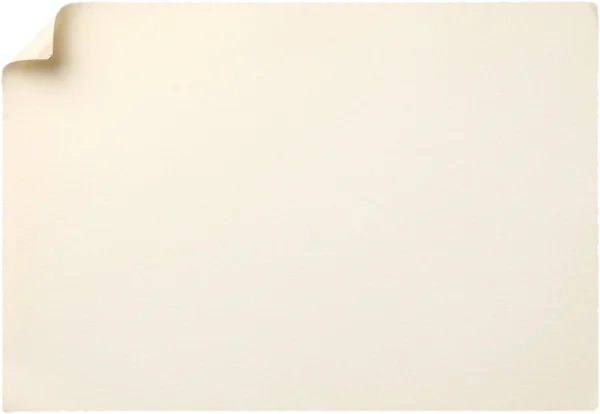
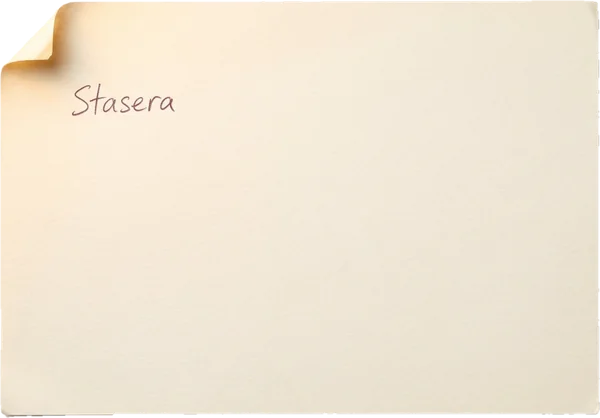
Scrivania: il tavolo, la mappa e il biglietto sono foto vere
Legno di noce con gli aloni di tazza, la cartina piegata con le macchie
di caffè, e "Stasera" scritto a mano dentro il biglietto. Il percorso,
le croci e le note a pennarello restano disegnati sopra dai tuoi dati.

Claude-Session: https://claude.ai/code/session_0132maytbjQPjkvku1fYAZ7S

diff --git a/css/scrivania.css b/css/scrivania.css
@@ -45,7 +45,14 @@
    schermo vero, a un pixel per pixel, diventano righe verticali marcate su
    tutta la pagina. Segnalato da Giovanni il 21 settembre 2026: il fondo deve
    essere uniforme. La profondita' la da' la luce qui sotto, non la grana. */
-#screen-home{background-color:#3d2c1e}
+/* IL LEGNO E' UNA FOTO (8 ottobre 2026), generata da Giovanni prendendo come
+   riferimento la scrivania di Jill: noce scuro, graffi, due aloni di tazza.
+   La tinta piatta resta sotto come colore di riserva, per il mezzo secondo
+   prima che l'immagine arrivi. COVER e non ripetuta: la foto non e' una
+   piastrella, ha gia' dentro la sua luce e i bordi scuri, e ripetendola si
+   vedrebbero le cuciture. Su un telefono in verticale se ne vede una fetta
+   centrale, che e' la parte con gli aloni. */
+#screen-home{background:#3d2c1e url(../img/scrivania/legno.webp) center/cover no-repeat}
 /* LA POZZA DI LUCE. Larga e in alto, come la fa una lampada da tavolo: una
    macchia piccola al centro sembrava un faretto da museo. Sta sopra il legno e
    sotto gli oggetti (z-index), e non riceve tocchi. */
@@ -147,9 +154,24 @@ body.is-touch #screen-home .home-scroll{padding-bottom:calc(178px + var(--safe-b
    intorno al disegno, e sta storto di mezzo grado. Storto di piu' sembrerebbe
    un errore; dritto sembrerebbe stampato sulla pagina. */
 .scriv-foglio{
-  background:#efe7d2;padding:7px;transform:rotate(-.5deg);
-  box-shadow:0 1px 2px rgba(0,0,0,.3),0 14px 30px rgba(0,0,0,.35);
+  background:url(../img/scrivania/mappa.webp) center/100% 100% no-repeat;
+  padding:7px;transform:rotate(-.5deg);
+  filter:drop-shadow(0 1px 1px rgba(0,0,0,.35)) drop-shadow(0 12px 16px rgba(0,0,0,.32));
 }
+/* LA MAPPA E' UNA FOTO (8 ottobre 2026): carta piegata in sei, macchie di
+   caffe', isolati, parchi e fiume gia' stampati. Prima erano due griglie di
+   righe chiare e tre rettangoli colorati messi da scrivania.js; adesso il
+   disegno lo fa l'immagine, e il codice ci scrive sopra solo i DATI — il
+   percorso, le croci, il cerchio di oggi, le note a pennarello.
+   - Si stira su tutto il foglio (100% 100%): il foglio e' alto quanto la mappa
+     piu' la legenda, quindi le proporzioni cambiano da schermo a schermo, e
+     una cartina di isolati stirata del dieci per cento non si nota.
+   - L'ombra e' un drop-shadow perche' i bordi della carta sono consumati e
+     irregolari: un box-shadow disegnerebbe un rettangolo dritto sotto.
+   - Lo sfondo bianco del generatore e' stato tolto riempiendo dai bordi
+     dell'immagine i pixel quasi uguali al vicino, piu' l'ombra grigia neutra
+     sotto il foglio. Un filtro sul colore non bastava: la luce calda in alto
+     a sinistra aveva lo stesso giallo della carta. */
 .scriv-mappa{
   position:relative;overflow:hidden;
   /* L'ALTEZZA CRESCE COL FOGLIO ma non oltre: il mese ha cinque righe di
@@ -158,18 +180,8 @@ body.is-touch #screen-home .home-scroll{padding-bottom:calc(178px + var(--safe-b
      veri (lo compone scrivania.js leggendo la misura a schermo), quindi ad
      ogni cambio di larghezza va ridisegnato — vedi il listener sul resize. */
   height:clamp(186px, min(46vw, 30vh), 300px);
-  /* LE STRADE. Due griglie di righe chiare sopra la carta tabacco: sono lo
-     sfondo su cui corre il percorso, e servono a far leggere il disegno come
-     una CITTA' invece che come un grafico. Le percentuali sono quelle della
-     mappa vera: isolati larghi e strade sottili. */
-  background:
-    linear-gradient(90deg,transparent 0 12%,#f2ece0 12% 13.4%,transparent 13.4% 30%,#f2ece0 30% 31.4%,transparent 31.4% 52%,#f2ece0 52% 53.4%,transparent 53.4% 74%,#f2ece0 74% 75.4%,transparent 75.4%),
-    linear-gradient(0deg,transparent 0 16%,#f2ece0 16% 18%,transparent 18% 44%,#f2ece0 44% 46%,transparent 46% 72%,#f2ece0 72% 74%,transparent 74%),
-    #e6dcc6;
 }
 .scriv-mappa svg{position:absolute;inset:0;width:100%;height:100%}
-.scriv-parco{position:absolute;background:#b9cf9c;opacity:.8}
-.scriv-fiume{position:absolute;background:#7fb6d8;opacity:.8}
 /* Il nome del mese e' STAMPATO, non scritto a mano: e' quello che c'era sul
    foglio prima che tu ci passassi sopra col pennarello. */
 .scriv-mese{
@@ -197,8 +209,11 @@ body.is-touch #screen-home .home-scroll{padding-bottom:calc(178px + var(--safe-b
    destra del foglio e' dove il cronometro ci si appoggia sopra, e li' sotto
    ogni parola sparisce. */
 .scriv-legenda{
-  margin-top:7px;padding:8px 4px 2px;max-width:74%;
-  border-top:1px solid rgba(90,70,40,.22);
+  margin-top:7px;padding:7px 9px 5px;max-width:74%;
+  /* Sulla mappa fotografica sotto ci sono gli isolati, non piu' il margine
+     bianco del foglio: la frase sta su un cartiglio di carta, come la legenda
+     stampata di una cartina vera, se no la si legge sopra i tetti. */
+  background:rgba(244,236,216,.9);box-shadow:0 0 0 1px rgba(90,70,40,.18);
   display:flex;flex-direction:column;gap:2px;
 }
 .scriv-legenda[hidden]{display:none}
@@ -230,9 +245,11 @@ body.is-touch #screen-home .home-scroll{padding-bottom:calc(178px + var(--safe-b
    (Giovanni, 21 settembre 2026). Sette centesimi sono abbastanza da leggersi
    come una scelta e non come un errore di un pixel. */
 .scriv-biglietto{
-  order:1;margin-top:58px;margin-left:7%;width:min(214px,52%);position:relative;
+  --largo:min(214px,52%);
+  order:1;margin-top:58px;margin-left:7%;width:var(--largo);position:relative;
   background:url(../img/scrivania/biglietto.webp) center/100% 100% no-repeat;
-  padding:20px 12px 13px 14px;transform:rotate(1.4deg);
+  aspect-ratio:600/418;transform:rotate(1.4deg);
+  padding:calc(var(--largo)*.21) calc(var(--largo)*.09) calc(var(--largo)*.06) calc(var(--largo)*.12);
   filter:drop-shadow(0 1px 1px rgba(0,0,0,.35)) drop-shadow(0 10px 14px rgba(0,0,0,.32));
   border:0;text-align:left;font:inherit;cursor:pointer;
 }
@@ -244,10 +261,25 @@ body.is-touch #screen-home .home-scroll{padding-bottom:calc(178px + var(--safe-b
    - l'ombra e' un drop-shadow e non un box-shadow, che disegnerebbe il
      rettangolo pieno e farebbe vedere un'ombra quadrata sotto l'angolo
      piegato, dove la carta non c'e';
-   - il testo parte 20px sotto il bordo invece di 15, se no "STASERA" finiva
-     sopra la piega. Ai lati invece il totale resta 26px come prima: il
-     foglio deve restare largo quanto era, il walkman e l'interruttore sono
-     stati sistemati attorno a quella misura.
+   - "Stasera" adesso e' scritto a mano DENTRO la foto (8 ottobre), con la
+     grafia delle note di Jill sulla mappa, e finisce al 28% dell'altezza del
+     foglio. Il testo del compito deve partire sotto, e per restare sotto il
+     foglio ha le proporzioni della foto (aspect-ratio) e i margini sono una
+     frazione della sua larghezza (--largo): in alto il 21%, che con quelle
+     proporzioni e' il 30% dell'altezza. Con un margine in pixel, su un foglio
+     piu' piccolo il compito sarebbe finito sopra la parola. Il 12% a sinistra
+     allinea il compito all'inizio di "Stasera".
+     NON IN PERCENTUALE SECCA: un padding in % si calcola sulla larghezza
+     della RIGA che contiene il biglietto, non del biglietto. Sul telefono le
+     due misure quasi coincidono e non si vedeva; sul computer la riga e'
+     larga 860px, il 12% diventava 103px e il compito andava a capo a ogni
+     parola. --largo ripete la formula della larghezza, cosi' i margini
+     seguono il foglio.
+     Se il compito e' lungo il foglio cresce in altezza (aspect-ratio fa da
+     minimo, non da gabbia) e la parola scende un poco con lui: meglio che
+     tagliare il compito.
+     La larghezza non cambia: il walkman e l'interruttore sono stati
+     sistemati attorno a quella misura.
    L'immagine si stira sull'altezza del biglietto (100% 100%): la carta non
    ha righe ne' disegni, quindi stirata non si nota, e il foglio resta
    sempre alto quanto quello che c'e' scritto. Lo sfondo a scacchi che il
@@ -257,10 +289,6 @@ body.is-touch #screen-home .home-scroll{padding-bottom:calc(178px + var(--safe-b
 .scriv-biglietto .nastro{
   position:absolute;width:52px;height:16px;background:rgba(236,226,196,.6);
   left:50%;margin-left:-26px;top:-7px;transform:rotate(-1.6deg);
-}
-.scriv-biglietto i{
-  font-style:normal;display:block;font-family:'Penna',cursive;
-  font-size:11px;color:#8d4a32;letter-spacing:.05em;margin-bottom:3px;
 }
 .scriv-biglietto b{
   display:block;font-family:'Penna',cursive;font-size:18px;font-weight:400;

diff --git a/js/scrivania.js b/js/scrivania.js
@@ -270,10 +270,9 @@ export function disegnaMappa(perGiorno, secondiMese, scriviBreve){
   }
 
   el.innerHTML =
-    `<span class="scriv-parco" style="left:3%;top:9%;width:19%;height:26%"></span>`
-  + `<span class="scriv-parco" style="left:70%;top:52%;width:27%;height:40%"></span>`
-  + `<span class="scriv-fiume" style="left:58%;top:0;width:${Math.max(6, L/74).toFixed(0)}px;height:100%;transform:rotate(2.5deg)"></span>`
-  + `<div class="scriv-mese">${MESI[mese]}</div>`
+    // Parchi e fiume non si disegnano piu': sono stampati nella foto della
+    // mappa (vedi .scriv-foglio in scrivania.css).
+    `<div class="scriv-mese">${MESI[mese]}</div>`
   + `<svg viewBox="0 0 ${L} ${H}" aria-hidden="true">${svg}</svg>`
   + note
   // Le ore del mese vanno in basso a SINISTRA: stavano al centro, dove adesso
@@ -319,7 +318,9 @@ export function disegnaBiglietto(apriProgetto, apriIProgetti){
   el.hidden = false;
   const p = projects.find(x => x && x.microtask && x.microtask.trim());
   if(p){
-    el.innerHTML = `<span class="nastro"></span><i>STASERA</i>`
+    // "Stasera" non si scrive piu': e' scritto a mano dentro la foto del
+    // foglio (vedi .scriv-biglietto in scrivania.css).
+    el.innerHTML = `<span class="nastro"></span>`
                  + `<b>${esc(p.microtask.trim())}</b>`
                  + `<em>${esc((p.title || '').toUpperCase())}</em>`;
     el.onclick = ()=> apriProgetto && apriProgetto(p.id);
@@ -333,7 +334,7 @@ export function disegnaBiglietto(apriProgetto, apriIProgetti){
   // foglietto che dicesse "non hai ancora scritto il task di stasera" sarebbe
   // un rimprovero appeso al tavolo. Toccandolo si va ai progetti, che e' dove
   // il task si scrive.
-  el.innerHTML = `<span class="nastro"></span><i>STASERA</i><span class="riga-vuota"></span>`;
+  el.innerHTML = `<span class="nastro"></span><span class="riga-vuota"></span>`;
   el.onclick = ()=> apriIProgetti && apriIProgetti();
 }
 

diff --git a/test/suite/navigazione.js b/test/suite/navigazione.js
@@ -743,7 +743,7 @@ module.exports = () => suite("Navigazione — la barra in fondo fra una schermat
   });
   ok('senza un task scritto il foglio resta sul tavolo', senzaTask.c1, senzaTask);
   ok('con la riga da riempire, e niente scritto dentro',
-     senzaTask.riga && senzaTask.testo === 'STASERA', senzaTask);
+     senzaTask.riga && senzaTask.testo === '', senzaTask);
   ok('ma senza nemmeno un progetto il foglio non c\'e\'', senzaTask.senzaNiente, senzaTask);
 
   // LA LAMPADA. Accende e spegne il tavolo, e la scelta resta: chi disegna di

diff --git a/sw.js b/sw.js
@@ -13,7 +13,7 @@
 // di servire quelli di ieri. Alzare questo e non quello e' normale; il
 // contrario no.
 const VERSIONE = '1.0.0';
-const CACHE = 'inkflow-static-v376';
+const CACHE = 'inkflow-static-v377';
 const SHARE_CACHE = 'inkflow-share-inbox';
 // Cache dei file .cbz/.cbr scaricati da Drive: gestita da js/drive.js, va
 // PRESERVATA tra i deploy (altrimenti a ogni aggiornamento riscaricheresti
